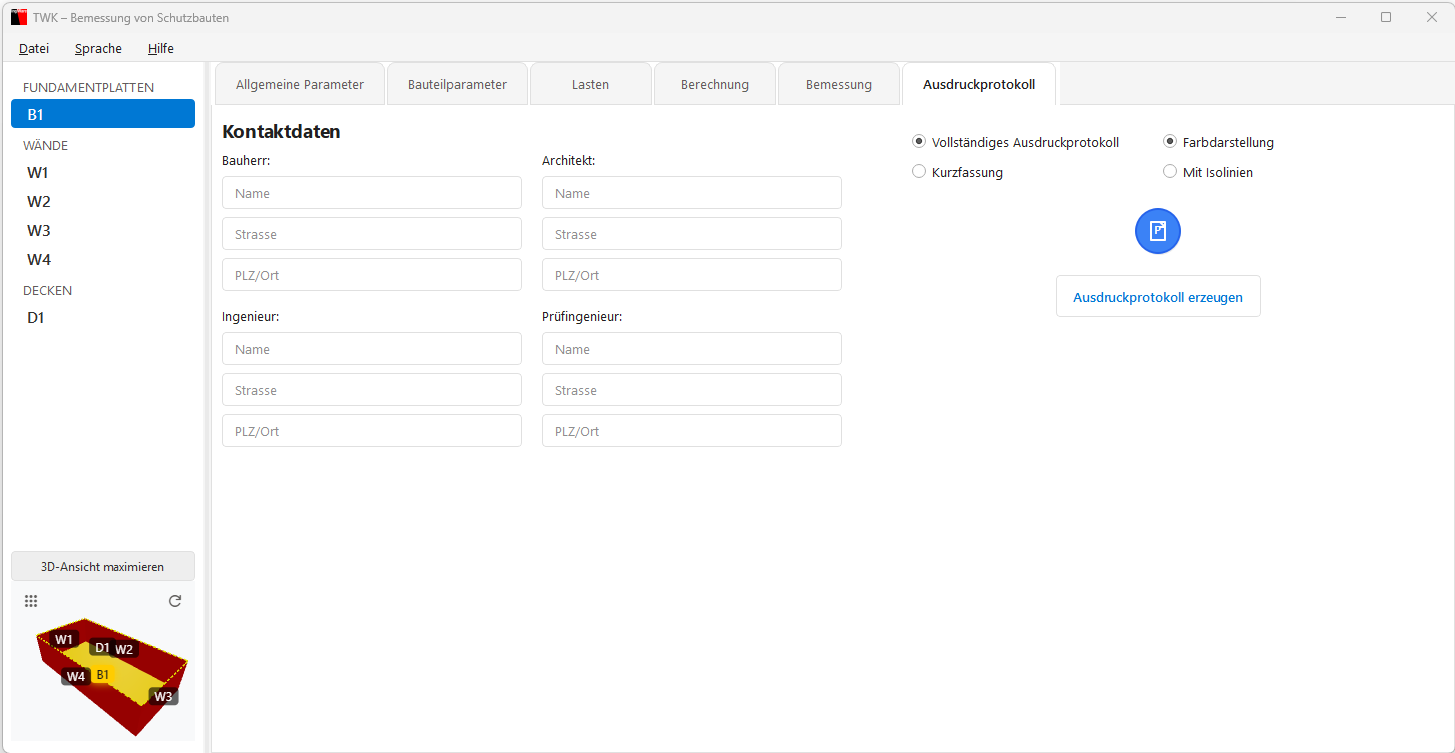
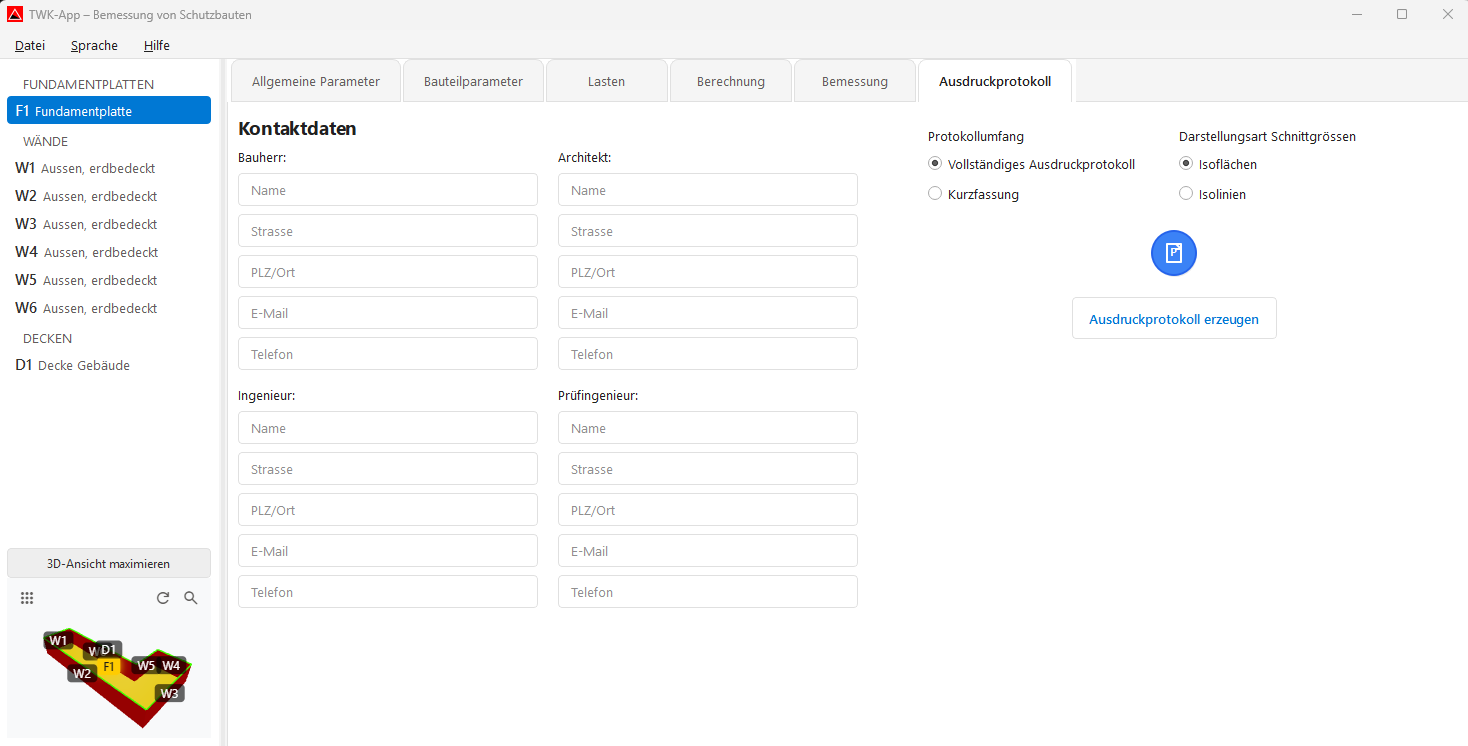
dok

diff --git a/docs/benutzerhandbuch/06_Bemessung.md b/docs/benutzerhandbuch/06_Bemessung.md
@@ -1,136 +1,186 @@
 # Bemessung
 
-Im Tab **„Bemessung"** wird die Bewehrung für Biegung und Schub entworfen und geprüft.
+Im Tab **„Bemessung"** wird die Bewehrung für Biegung und Schub festgelegt, geprüft und bei Bedarf automatisch optimiert.
 
 ---
 
-## Allgemeine Bewehrungsparameter
+## Einstieg und Arbeitsweise
 
-Vor der eigentlichen Bemessung sollten die **Allgemeinen Bewehrungsparameter** geprüft werden. Diese werden über das **Zahnrad-Icon** (⚙) oben rechts → **„Bewehrungsparameter"** geöffnet.
+Beim Einstieg in den Tab erscheint zuerst das Fenster **„Allgemeine Bewehrungsparameter"**.  
+Hier werden die globalen Vorgaben für die Bemessung festgelegt.
+Auf dieser Basis kann die Bewehrung anschliessend mit einem Klick optimiert und direkt übernommen werden. Beim Optimieren wählt die TWK-App je Bereich bzw. Bauteil automatisch die kleinste passende Bewehrung aus den freigegebenen Kombinationen, aktualisiert die Berechnungen und bewertet die Nachweise neu.
 
 ![Screenshot: Allgemeine Bewehrungsparameter](screenshots/06_allgemeine_bewehrungsparameter.png)
 
-Der Dialog enthält getrennte Einstellungen für **Decke/Fundamentplatte** und **Wände**:
+Der Dialog enthält getrennte Bereiche für **Decke/Fundamentplatte** und **Wände**:
 
-| Parameter | Beschreibung |
-|---|---|
-| **Stabdurchmesser Ø [mm]** | Durchmesser der Bewehrungsstäbe (Dropdown, z. B. 10 mm) |
-| **Stababstand s [cm]** | Abstand zwischen den Stäben (z. B. 15.0 cm) |
-| **Grösstkorn Durchmesser D_max [mm]** | Maximaler Korndurchmesser des Betons (z. B. 32 mm) |
-| **Betondeckung 1. Lage c_nom [mm]** | Betondeckung der äusseren Bewehrungslage (z. B. 30 mm) |
-| **Betondeckung 4. Lage c_nom [mm]** | Betondeckung der inneren Bewehrungslage (z. B. 30 mm) |
-| **Orientierung der Bewehrung** | 1. und 4. Lage in x-Richtung oder y-Richtung |
-| **Synchrone Anschlusseisen** | Checkbox für synchrone Anschlussbewehrung |
+- Grösstkorn-Durchmesser `D_max`
+- Betondeckung `c_nom` (1. und 4. Lage)
+- Orientierung der Bewehrung
+- Synchrone Anschlusseisen
+- Auswahl der zulässigen Kombinationen für Biege- und Schubbewehrung
 
-> Diese Parameter gelten für **alle Bauteile**. Für bauteilspezifische Anpassungen gibt es zusätzlich die **Bauteil-Bewehrungsparameter** (ebenfalls über das Zahnrad-Icon).
+Diese Vorgaben gelten global; bauteilspezifische Anpassungen erfolgen später über **Bauteil-Bewehrungsparameter**.
+
+Typischer Ablauf im Tab:
+
+1. Allgemeine Parameter prüfen oder anpassen
+2. Zwischen Biegebemessung und Schubbemessung wechseln
+3. Bereiche in Skizze/Liste bearbeiten und Ergebnisse unten kontrollieren
+4. Nachweise beurteilen und bei Bedarf kommentiert akzeptieren
 
 ---
 
-## Umschalten: Biegung / Schub
+## Umschalten und Statusanzeige
 
-Oben kann zwischen **Biegebemessung** und **Schubbemessung** umgeschaltet werden.
+Oben wird zwischen **Biegebemessung** und **Schubbemessung** umgeschaltet.  
+Bei der Biegebemessung kann zusätzlich zwischen **Lage 1 bis Lage 4** gewechselt werden.
 
-Über den **Segmented Control** oben wird gewählt:
+Die Statusfarben werden durchgängig verwendet:
 
-- **Biegebemessung** – Bewehrung gegen Biegemomente
-- **Schubbemessung** – Bewehrung gegen Schubkräfte
-
-Die Buttons zeigen farbig den **Nachweissstatus** an:
 - 🟢 Grün = Nachweis erfüllt
-- 🟠 Orange = Nicht erfüllt, aber akzeptiert
-- 🔴 Rot = Nicht erfüllt
+- 🟠 Orange = Nachweis nicht erfüllt, aber trotzdem akzeptiert
+- 🔴 Rot = Nachweis nicht erfüllt
+
+![Screenshot: Nachweis-Status Farben](screenshots/06_nachweis_status_farben.png)
 
 ---
 
 ## Biegebemessung
 
-### Bewehrungslagen (Lage 1–4)
+### Überblick
 
-Bei der Biegebemessung kann zwischen **4 Bewehrungslagen** gewechselt werden (Lage 1, Lage 2, Lage 3, Lage 4). Jede Lage hat eine eigene Bewehrungsskizze und -liste.
+Die Biegebemessung ist in einen oberen Bearbeitungsbereich und einen unteren Ergebnisbereich gegliedert.
 
-### Oberer Bereich
+![Screenshot: Biegebemessung Überblick](screenshots/06_biegung_ueberblick.png)
 
-| Links: Bewehrungsskizze | Rechts: Bewehrungsliste |
-|---|---|
-| 2D-Draufsicht des Bauteils mit farbigen Bewehrungsflächen | Scrollbare Liste aller Bewehrungspositionen |
+### Oberer Bereich: Skizze und Liste
 
-**Bewehrungsskizze:**
-- Zeigt das Bauteil als Polygon mit farbig dargestellten Bewehrungsbereichen.
-- Interaktiv: Auswählen, Geometrie bearbeiten, Bemassung hinzufügen.
-- Farbskala rechts zeigt die Bewehrungswerte.
+- **Links:** interaktive Bewehrungsskizze des ausgewählten Bauteils
+- **Rechts:** Bewehrungsliste mit Positionen und Kennwerten
 
-**Bewehrungsliste:**
-- Jeder Eintrag zeigt: Position, Durchmesser (Ø) und Abstand (z. B. „Pos 1: Ø12/150").
-- Aktionen pro Eintrag: Bearbeiten, Info, Löschen.
-- Hover über einen Eintrag markiert den Bereich in der Skizze (und umgekehrt).
+![Screenshot: Biegung Skizze und Liste](screenshots/06_biegung_skizze_liste.png)
 
-![Screenshot: Bewehrungsskizze und -liste](screenshots/06_biegung_skizze.png)
-<!-- TODO: Screenshot einfügen -->
+### Unterer Bereich: Ergebnisansichten
 
-### Unterer Bereich: 3D-Visualisierungen
+Im unteren Bereich werden drei Ansichten angezeigt:
 
-Drei Ansichten nebeneinander:
+1. Linke Ergebnisansicht (frei umschaltbar)
+2. Mittlere Ergebnisansicht (frei umschaltbar)
+3. Kommentar- und Nachweisbereich
 
-| Ansicht 1 | Ansicht 2 | Ansicht 3 |
-|---|---|---|
-| Biegemoment M_Ed [kNm/m] | Ausnutzung | Kommentar & Status |
+Über die Menüs **„Ansicht wechseln"** können linke und mittlere Ergebnisansicht unabhängig voneinander eingestellt werden.
 
-Über das **Dropdown-Menü (⋮)** kann die Darstellung umgeschaltet werden:
-- Biegemoment M_Ed [kNm/m]
-- Biegewiderstand M_Rd [kNm/m]
-- Ausnutzung
-- Mindestbewehrung [cm²/m]
+In der **Biegebemessung** stehen pro Anzeige folgende Darstellungen zur Verfügung:
 
-**Kommentar-Bereich:**
-- Zeigt den Nachweisstatus: **„Nachweis erfüllt"** (grün) oder **„Nachweis nicht erfüllt"** (rot).
-- Falls der Nachweis nicht erfüllt ist, kann er mit **„Nachweis trotzdem akzeptieren"** akzeptiert werden – ein Kommentar ist dann **Pflicht**.
+- `M_Ed` (Biegemoment)
+- `M_Rd` (Biegewiderstand)
+- `Ausnutzung`
+- `Mindestbewehrung`
+- `A_s,erf` (erforderliche Bewehrung)
+
+![Screenshot: Biegung 3D Modi](screenshots/06_biegung_3d_modi.png)
+
+Für Ausnutzungsdarstellungen kann die Skala zwischen **3-farbig** und **2-farbig** umgeschaltet werden.
+
+![Screenshot: Ausnutzung Skala Toggle](screenshots/06_ausnutzung_skala_toggle.png)
+
+### Kommentar und Nachweis
+
+Wenn ein Nachweis nicht erfüllt ist, kann er über **„Nachweis trotzdem akzeptieren"** freigegeben werden.  
+In diesem Fall ist ein Kommentar verpflichtend.
+Solange der Pflichtkommentar fehlt, sind Wechsel- und Auswahlaktionen im Tab eingeschränkt.
+
+![Screenshot: Biegung Kommentar und Nachweis](screenshots/06_biegung_kommentar_nachweis.png)
+![Screenshot: Kommentar Pflicht Blockierung](screenshots/06_kommentar_pflicht_blockierung.png)
 
 ---
 
 ## Schubbemessung
 
-Der Aufbau ist analog zur Biegebemessung:
+Der Aufbau folgt derselben Logik wie bei der Biegebemessung:
 
-### Oberer Bereich
+- oberer Bereich mit Skizze und Liste
+- unterer Bereich mit Ergebnisansichten und Kommentarstatus
 
-| Links: Schubbewehrungsskizze | Rechts: Schubbewehrungsliste |
-|---|---|
-| 2D-Draufsicht mit Schubbewehrungsbereichen | Liste mit Position, Ø, Abstand parallel/normal |
+![Screenshot: Schubbemessung Überblick](screenshots/06_schub_ueberblick.png)
 
-Jeder Eintrag zeigt z. B.: „Pos 1: Ø12/150/200" (Durchmesser / Abstand parallel / Abstand normal).
+### Oberer Bereich: Skizze und Liste
 
-### Unterer Bereich: 3D-Visualisierungen
+Die Schubbewehrung wird in der Skizze bearbeitet und in der Liste positionsweise geführt.
 
-| Ansicht 1 | Ansicht 2 | Ansicht 3 |
-|---|---|---|
-| Schubkraft V_Ed [kN/m] | Ausnutzung | Kommentar & Status |
+![Screenshot: Schub Skizze und Liste](screenshots/06_schub_skizze_liste.png)
 
-Umschaltbar auf:
-- Schubkraft V_Ed [kN/m]
-- Schubwiderstand V_Rd [kN/m]
-- Ausnutzung
+### Unterer Bereich: Ergebnisansichten
 
-![Screenshot: Schubbemessung](screenshots/06_schub.png)
-<!-- TODO: Screenshot einfügen -->
+Auch in der Schubbemessung lassen sich linke und mittlere Ergebnisansicht unabhängig über das jeweilige Menü umschalten.
+
+In der **Schubbemessung** stehen folgende Darstellungen zur Verfügung:
+
+- **Linke Anzeige:** `V_Ed`, `V_Rd`, `Ausnutzung`, `A_s,erf`
+- **Mittlere Anzeige:** `V_Ed`, `V_Rd`, `Ausnutzung`
+
+![Screenshot: Schub 3D Modi](screenshots/06_schub_3d_modi.png)
 
 ---
 
-## Werkzeuge (Toolbar)
+## Werkzeuge und Bedienung
 
-| Werkzeug | Funktion |
-|---|---|
-| **Selektieren** | Bewehrungsbereiche auswählen |
-| **Geometrie ändern** | Eckpunkte der Bewehrungsbereiche verschieben |
-| **Bemassung** | Masslinien in der Skizze hinzufügen |
-| **+ (Plus-Button)** | Neue Bewehrung hinzufügen (Zulage bzw. Schubbewehrung) |
+Die vertikale Toolbar enthält die Bearbeitungsmodi und Aktionen:
+
+- **Selektieren**
+- **Geometrie ändern**
+- **Bemassung**
+- **+** (Biegung: Zulagen hinzufügen / Schub: Schubbewehrung hinzufügen)
+- **Rückgängig**
+- **Wiederholen**
+
+![Screenshot: Toolbar und Undo/Redo](screenshots/06_toolbar_undo_redo.png)
+
+### Modus „Selektieren"
+
+- Bewehrungsbereich anklicken, um die zugehörigen Parameter zu öffnen.
+- Markierte Bereiche werden in Skizze und Liste synchron hervorgehoben.
+
+### Modus „Geometrie ändern"
+
+- Bewehrungsbereich auswählen, dann Eckpunkte (Knoten) mit der Maus verschieben.
+- **Shift** beim Ziehen hält die Bewegung orthogonal (horizontal/vertikal).
+- Mehrere Knoten können gemeinsam verschoben werden: zusätzliche Knoten mit **Ctrl** auswählen und dann als Gruppe ziehen.
+- Für eine parallele Kantenverschiebung können zwei benachbarte Knoten gemeinsam markiert und zusammen verschoben werden.
+
+### Modus „Bemassung"
+
+- Zwei Punkte in der Skizze wählen, um eine Bemassungslinie zu erstellen.
+- **Shift** hält die Bemassung orthogonal.
+
+### „+“ Bewehrung hinzufügen (Zulage / Schubbewehrung)
+
+Beim Hinzufügen wird ein Zeichenmodus mit Koordinatenleiste aktiviert:
+
+- **Insert** setzt den Koordinaten-Ursprung an die aktuelle Cursorposition (dX/dY werden auf 0 gesetzt).
+- **X** oder **Y** springt direkt in das jeweilige Koordinaten-Eingabefeld.
+- **Enter** übernimmt die Eingabe und setzt den nächsten Punkt exakt.
+- **L** öffnet die Längeneingabe für den aktuellen Segmentabschnitt.
+- **Esc** oder Rechtsklick bricht den laufenden Zeichenvorgang ab.
+
+### Rückgängig / Wiederholen
+
+- **Ctrl+Z**: Rückgängig
+- **Ctrl+Y**: Wiederholen
 
 ---
 
 ## Einstellungen (Zahnrad-Icon)
 
-Über das Zahnrad-Icon oben können geöffnet werden:
-- **Bewehrungsparameter** – Allgemeine Parameter für alle Bauteile
-- **Bauteil-Bewehrungsparameter** – Parameter für das aktuelle Bauteil (Betondeckung, Orientierung, Korngrösse)
+Über das Zahnrad-Menü stehen folgende Dialoge zur Verfügung:
+
+- **Allgemeine Bewehrungsparameter**
+- **Bauteil-Bewehrungsparameter**
+- **Einheiten**
+
+![Screenshot: Zahnrad Bauteil-Bewehrungsparameter](screenshots/06_zahnrad_bauteil_bewehrungsparameter.png)
+![Screenshot: Einstellungen Einheiten](screenshots/06_settings_einheiten.png)
 
 ---
 

diff --git a/docs/benutzerhandbuch/07_Ausdruckprotokoll.md b/docs/benutzerhandbuch/07_Ausdruckprotokoll.md
@@ -3,50 +3,61 @@
 Im Tab **„Ausdruckprotokoll"** wird der PDF-Bericht für die Schutzraumbemessung erzeugt.
 
 ![Screenshot: Tab Ausdruckprotokoll](screenshots/07_ausdruckprotokoll.png)
-<!-- TODO: Screenshot einfügen -->
 
 ---
 
-## Berichtstyp wählen
+## Protokollumfang und Darstellung
 
 | Option | Beschreibung |
 |---|---|
-| **Vollständiges Ausdruckprotokoll** | Kompletter Bericht mit allen Kapiteln (Standard) |
-| **Kurzfassung** | Kompakte Version ohne Lastfälle/Kapitel 2 |
+| **Vollständiges Ausdruckprotokoll** | Vollversion mit allen Berichtsteilen |
+| **Kurzfassung** | Kompakte Version mit reduziertem Umfang |
 
-### Darstellungsart (nur bei vollständigem Protokoll)
+### Darstellungsart Schnittgrössen (nur Vollversion)
 
 | Option | Beschreibung |
 |---|---|
-| **Farbdarstellung** | Farbcodierte Diagramme (Standard) |
-| **Mit Isolinien** | Darstellung mit Konturlinien |
+| **Isoflächen** | Flächenhafte Farbdarstellung (Standard) |
+| **Isolinien** | Darstellung mit Konturlinien |
+
+> **Hinweis:** Bei **Kurzfassung** wird die Auswahl **Darstellungsart Schnittgrössen** ausgeblendet.
 
 ---
 
 ## Kontaktdaten (linke Seite)
 
-Folgende Angaben müssen ausgefüllt werden (Pflichtfelder):
+Die Kontaktdaten werden für vier Rollen erfasst:
 
 | Rolle | Felder |
 |---|---|
-| **Bauherr** | Name, Strasse, PLZ/Ort |
-| **Architekt** | Name, Strasse, PLZ/Ort |
-| **Ingenieur** | Name, Strasse, PLZ/Ort |
-| **Prüfingenieur** | Name, Strasse, PLZ/Ort |
+| **Bauherr** | Name, Strasse, PLZ/Ort, E-Mail, Telefon |
+| **Architekt** | Name, Strasse, PLZ/Ort, E-Mail, Telefon |
+| **Ingenieur** | Name, Strasse, PLZ/Ort, E-Mail, Telefon |
+| **Prüfingenieur** | Name, Strasse, PLZ/Ort, E-Mail, Telefon |
+
+Pflichtfelder für die PDF-Erzeugung sind je Rolle:
+
+- **Name**
+- **Strasse**
+- **PLZ/Ort**
+
+E-Mail und Telefon sind optional.
 
 Die Kontaktdaten werden automatisch gespeichert und beim nächsten Öffnen wieder geladen.
-
-> **Hinweis:** Alle Felder müssen ausgefüllt sein, bevor das PDF erzeugt werden kann. Leere Felder werden rot markiert.
 
 ---
 
 ## PDF erzeugen
 
-1. Auf **„Ausdruckprotokoll erzeugen"** klicken (oder den Status-Kreis).
-2. **Speicherort wählen** – ein Dateidialog öffnet sich.
-   - Vorgeschlagener Dateiname: `{Projektname} Schutzraumbemessung.pdf`
-3. Die Erzeugung läuft – ein Fortschrittsdialog zeigt den Status.
-4. Nach Abschluss erscheint eine **Erfolgsmeldung** mit dem Speicherpfad.
+1. Protokollumfang (und ggf. Darstellungsart) wählen.
+2. Pflichtfelder in den Kontaktdaten ausfüllen.
+3. Auf **„Ausdruckprotokoll erzeugen"** klicken (oder den Status-Kreis).
+4. **Speicherort wählen** – ein Dateidialog öffnet sich.
+   - Vorgeschlagener Dateiname: `{Projektname} TWKDok.pdf`
+   - Bei Englisch wird `_en` ergänzt.
+   - Bei Kurzfassung wird `Kurzversion` ergänzt.
+5. Die Erzeugung läuft; ein Fortschrittsdialog zeigt den Stand.
+6. Nach Abschluss erscheint eine Erfolgsmeldung mit dem Speicherpfad.
 
 ### Status-Anzeige
 
@@ -54,7 +65,7 @@ Die Kontaktdaten werden automatisch gespeichert und beim nächsten Öffnen wiede
 |---|---|
 | 🔵 Blauer Kreis | Bereit – PDF kann erzeugt werden |
 | 🟢 Grüner Kreis (✓) | PDF erfolgreich erzeugt |
-| 🔴 Roter Kreis (✗) | Fehler beim Erzeugen |
+| 🔴 Roter Kreis (✗) | Fehler beim Erzeugen (erneuter Versuch möglich) |
 
 ---
 
@@ -83,4 +94,4 @@ Die Kontaktdaten werden automatisch gespeichert und beim nächsten Öffnen wiede
 - Schubbemessung: Skizzen, Schubkraftdiagramme, Ausnutzung, Nachweistabellen
 
 ![Screenshot: PDF-Beispiel](screenshots/07_pdf_beispiel.png)
-<!-- TODO: Screenshot einfügen -->
+
